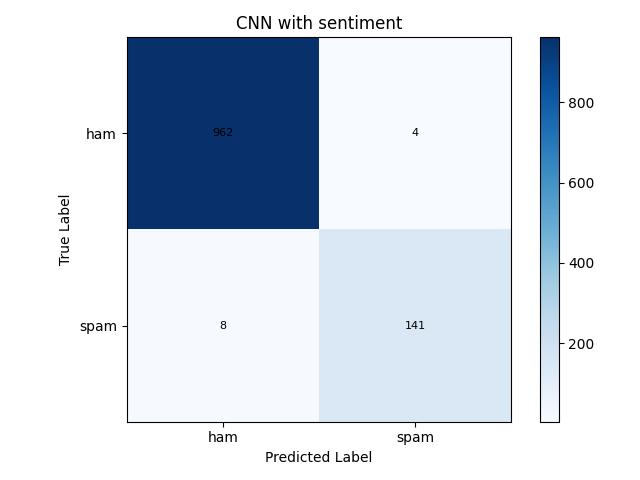
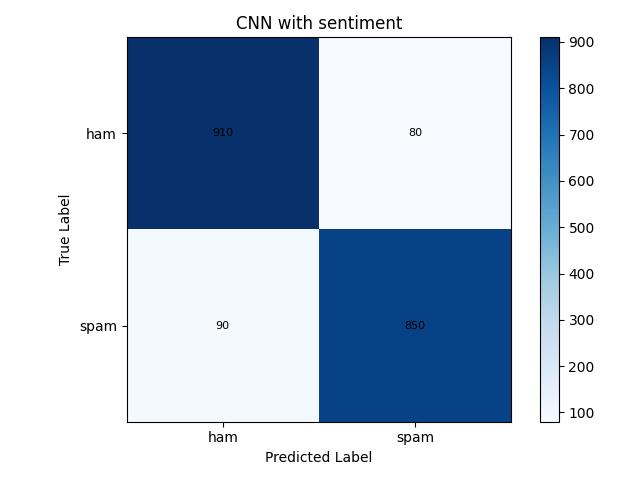
added oversampling to counter imbalance dataset

diff --git a/Model.py b/Model.py
@@ -53,7 +53,7 @@ class Model:
         model.compile(loss='binary_crossentropy', optimizer='adam', metrics=['accuracy'])
 
  
-        model.fit(train[0], train[1], epochs=12, batch_size=32)
+        model.fit(train[0], train[1], epochs=10, batch_size=32)
     
 
         loss, accuracy = model.evaluate(test[0], test[1])
@@ -75,7 +75,8 @@ class Model:
 
         if self.algorithm == "SVM":
             message_vector, label = obj.data_convertor(sentiment)
-            train_data, test_data = obj.data_split(message_vector, label)
+            oversampled_message, oversampeld_label = obj.oversample_data(message_vector, label )
+            train_data, test_data = obj.data_split(oversampled_message, oversampeld_label)
             cr,cm,acc = self.svm_classifier(train_data,test_data)
             if sentiment:
                 print(f"Accuracy with Sentiment Analysis for SVM: {acc}")
@@ -86,7 +87,6 @@ class Model:
 
         elif self.algorithm == "KMeans":
             message_vector, label = obj.data_convertor_tfidf(sentiment)
-            
             
             if sentiment:
                 seed = 2300
@@ -114,7 +114,8 @@ class Model:
             encoder = LabelEncoder()
             encoder.fit(["ham","spam"])
             required_labels = encoder.transform(data["Label"])
-            train_data, test_data = obj.data_split(padded_data,required_labels)
+            oversampled_message, oversampeld_label = obj.oversample_data(padded_data,required_labels)
+            train_data, test_data = obj.data_split(oversampled_message, oversampeld_label)
 
             cr,cm,acc = self.cnn(train_data,test_data)
             if sentiment:

diff --git a/README.md b/README.md
@@ -23,11 +23,11 @@ run the code:
 
 
 
-|      Model      | Regular Accuracy | Accuracy with Sentiment Analysis  |
-|:---------------:|:----------------:|:--------------------------:|
-|      SVM        |      98.296      |           98.3856          |
-|     KMeans      |      89.932      |           71.1953          |
-|      CNN        |      98.744      |           98.9238          |
+|      Model      |      Regular Accuracy    | Accuracy with Sentiment Analysis  |
+|:---------------:|:------------------------:|:---------------------------------:|
+|      SVM        |      95.80310880829016   |         99.68911917098445         |
+|     KMeans      |      89.93180186647524   |         71.19526202440775         |
+|      CNN        |      89.63730335235596   |         91.19170904159546         |
 
 
 <center>Confussion matrix</center>
